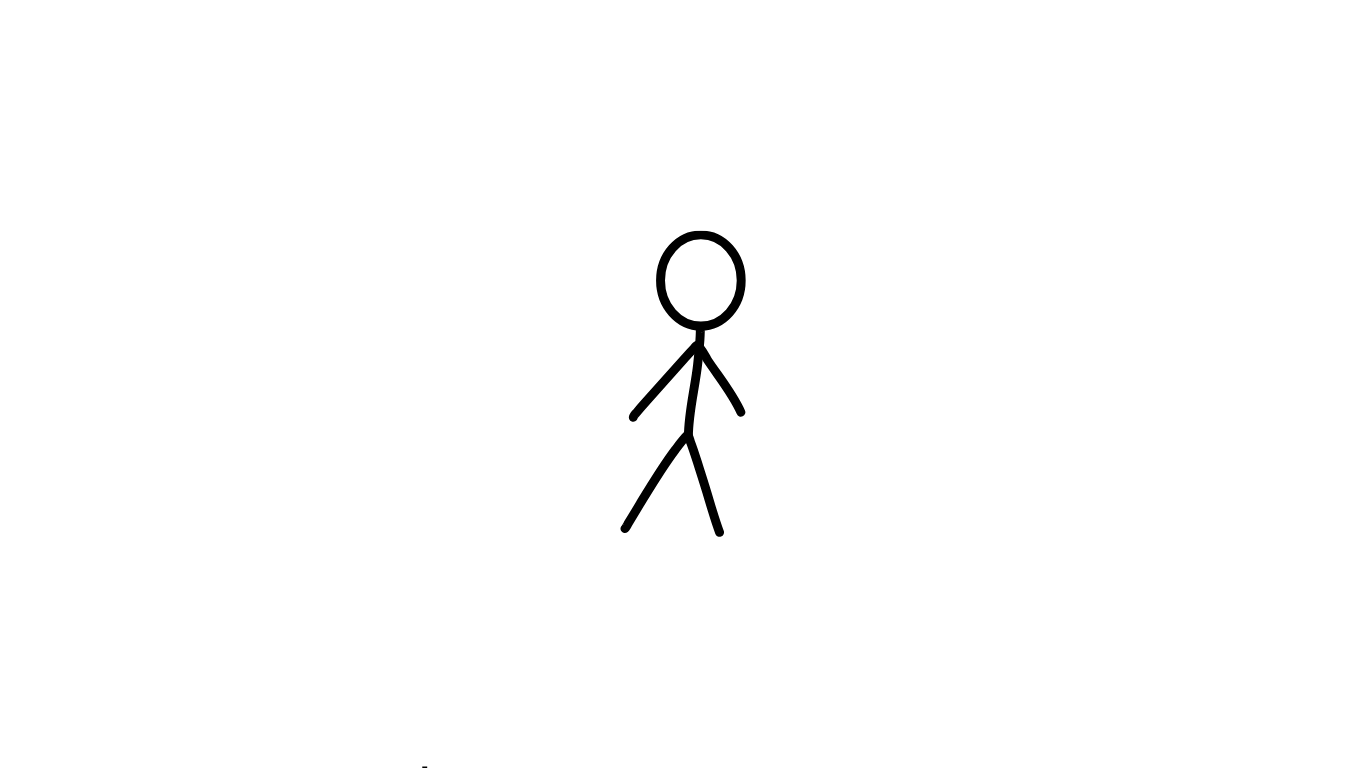
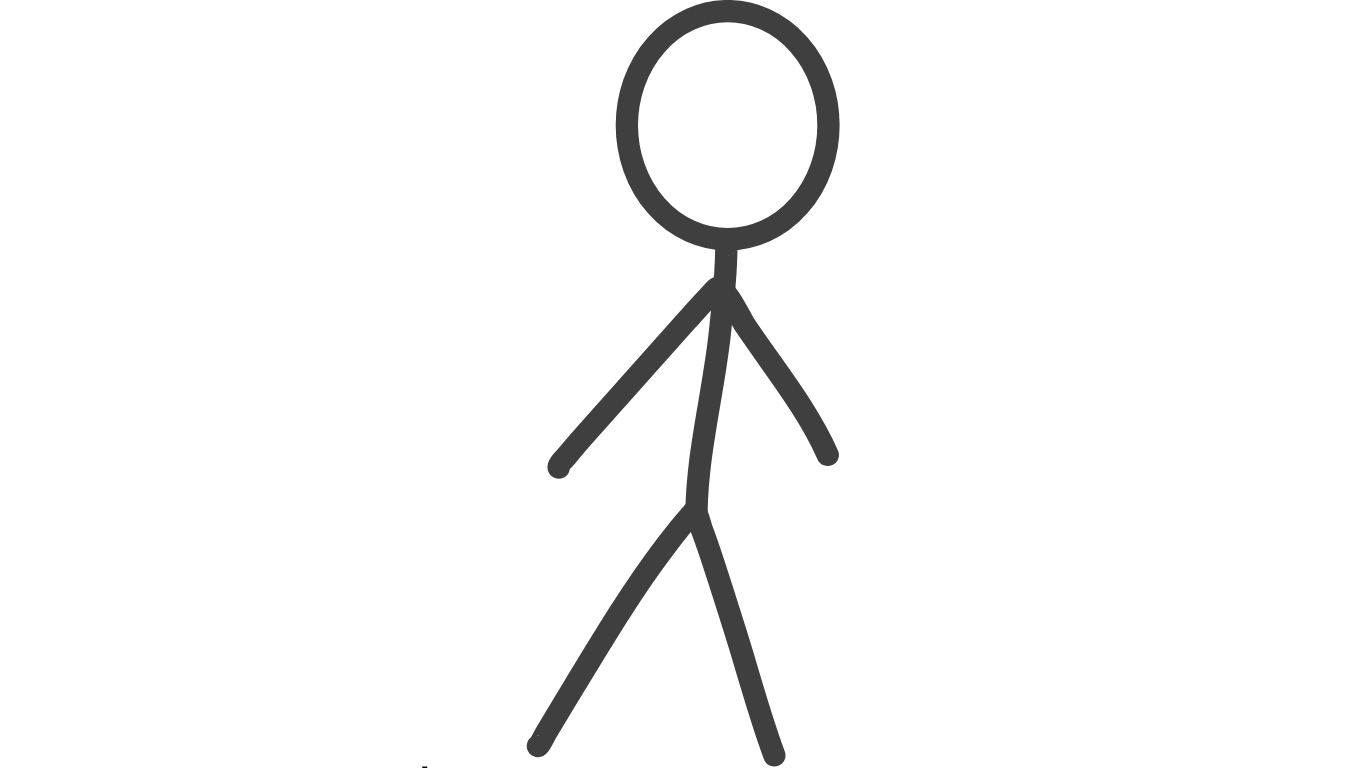
images

Changed region(s): [[0.369, 0.0, 0.6149, 1.0]]

diff --git a/api/admin.js b/api/admin.js
@@ -121,6 +121,7 @@ module.exports = async (req, res) => {
       case "list_users":        return res.status(200).json(await listUsers(supa, p));
       case "list_onboarding":   return res.status(200).json(await listOnboarding(supa, p));
       case "list_payments":     return res.status(200).json(await listPayments(supa, p));
+      case "list_invoices":     return res.status(200).json(await listInvoices(supa, p));
       case "list_websites":     return res.status(200).json(await listWebsites(supa, p));
       case "list_domains":      return res.status(200).json(await listDomains(supa, p));
       case "list_alerts":       return res.status(200).json(await listAlerts(supa, p));
@@ -547,6 +548,53 @@ async function listPayments(supa, p) {
   // Newest paid first. Returns the full paid set (no DB paging) — like the other
   // aggregated admin views — so the generic table renders one clean list.
   rows.sort((a, b) => String(b.paid_at || "").localeCompare(String(a.paid_at || "")));
+  return { rows, hasMore: false };
+}
+
+// ---- The admin "Invoices" list — EVERY invoice, all time, all statuses. ------
+// Deliberately UNFILTERED: draft / issued / paid / overdue / void / canceled —
+// one-time and (legacy) subscription invoices — all appear. Newest first by
+// created_at (the invoice creation date). Joins client name/business/email by
+// client_user_id so the table can show who each invoice is for. This is a
+// display query only; it never writes or mutates invoice data.
+async function listInvoices(supa, p) {
+  const { data, error } = await supa
+    .from("invoices")
+    .select("*")
+    .order("created_at", { ascending: false });
+  if (error) throw new Error(error.message);
+
+  const ids = [...new Set((data || []).map((r) => r.client_user_id).filter(Boolean))];
+  let inqMap = {};
+  if (ids.length) {
+    const { data: inq } = await supa
+      .from("project_inquiries")
+      .select("user_id, full_name, business_name, email")
+      .in("user_id", ids);
+    inqMap = indexBy(inq, "user_id");
+  }
+
+  let rows = (data || []).map((iv) => {
+    const u = inqMap[iv.client_user_id] || {};
+    return {
+      ...iv,
+      user_id: iv.client_user_id,                    // for the drawer / row click
+      user_name: u.full_name || u.email || "—",      // the person ("Name")
+      business_name: u.business_name || "—",          // the client/business ("Client")
+      client_name: u.full_name || u.business_name || "—",
+      client_email: u.email || "—",
+      amount: iv.total_amount_cents != null ? Number(iv.total_amount_cents) / 100 : null,
+    };
+  });
+
+  // Optional free-text search across the joined client fields + title.
+  if (p && p.search) {
+    const s = String(p.search).toLowerCase();
+    rows = rows.filter((r) =>
+      [r.user_name, r.business_name, r.client_email, r.title, r.status]
+        .some((v) => v && String(v).toLowerCase().includes(s)));
+  }
+
   return { rows, hasMore: false };
 }
 

diff --git a/dashboard.html b/dashboard.html
@@ -1117,6 +1117,11 @@
               </div>
             </aside>
           </div>
+
+          <div class="adm-panel-box">
+            <h3>All invoices</h3>
+            <div id="inv-list">Loading…</div>
+          </div>
         </section>
 
         <!-- SUBSCRIPTIONS — create a custom recurring hosting subscription for a -->
@@ -3209,6 +3214,7 @@
         showInvMsg("ok", "Invoice " + label + (total ? " — server total " + total : "") + idText + ". The form has been cleared for the next invoice.");
         toast("Invoice " + label, (inv.title || "") + (total ? " · " + total : ""), false);
         resetInvoiceForm();
+        loadInvoiceList();
       } catch (e) {
         showInvMsg("err", e.message || "Could not create the invoice.");
         toast("Couldn’t create invoice", e.message, true);
@@ -3260,6 +3266,28 @@
       }
     }
 
+    // ALL invoices, every status, newest first. Display-only summary table
+    // (Name · Client · Title · Amount · Status · Created) — full detail/actions
+    // are not part of this list. Server query lives in api/admin.js (list_invoices).
+    async function loadInvoiceList() {
+      const wrap = aq("inv-list");
+      wrap.textContent = "Loading…";
+      try {
+        const data = await adminApi("list_invoices", {});
+        const rows = (data && data.rows) || [];
+        if (!rows.length) { wrap.innerHTML = '<p class="inv-note">No invoices found.</p>'; return; }
+        const head = "<thead><tr><th>Name</th><th>Client</th><th>Title</th><th>Amount</th><th>Status</th><th>Created</th></tr></thead>";
+        const body = rows.map((r) =>
+          "<tr><td>" + esc(r.user_name || "—") + "</td><td>" + esc(r.business_name || "—") + "</td><td>" +
+          esc(r.title || "—") + "</td><td>" + money(r.amount) + "</td><td>" + badge(r.status) + "</td><td>" +
+          (fmtDate(r.created_at) || "—") + "</td></tr>"
+        ).join("");
+        wrap.innerHTML = '<table class="adm-table">' + head + "<tbody>" + body + "</tbody></table>";
+      } catch (e) {
+        wrap.innerHTML = '<p class="inv-note" style="color:var(--adm-danger)">Couldn’t load invoices: ' + esc(e.message) + "</p>";
+      }
+    }
+
     function initInvoices() {
       if (!INV.built) {
         addInvItem();
@@ -3270,6 +3298,7 @@
         INV.built = true;
       }
       loadInvoiceClients(false);
+      loadInvoiceList();
     }
 
     // =====================================================================

diff --git a/api/admin/subscriptions.js b/api/admin/subscriptions.js
@@ -247,11 +247,17 @@ module.exports = async (req, res) => {
     }
 
     // ================= LIST =================
+    // EVERY subscription, all time, all statuses — active / trialing / past_due /
+    // unpaid / incomplete / pending_activation / canceled, and BOTH admin-created
+    // 'hosting' rows and legacy plan rows (category NULL). No category or status
+    // filter: the admin table shows the complete history. Newest first by
+    // created_at. amount/plan_interval are included so legacy rows (which store a
+    // dollar amount + 'month'/'year' interval instead of amount_cents/
+    // interval_months) render their price too.
     if (action === "list") {
       const { data: rows, error: listErr } = await supa
         .from("subscriptions")
-        .select("id, user_id, plan_name, amount_cents, interval_months, currency, status, created_at, activated_at, canceled_at, stripe_subscription_id")
-        .eq("category", "hosting")
+        .select("id, user_id, plan_name, amount, amount_cents, interval_months, plan_interval, currency, status, created_at, activated_at, canceled_at, stripe_subscription_id")
         .order("created_at", { ascending: false });
       if (listErr) throw new Error(listErr.message);
       return res.status(200).json({ subscriptions: rows || [] });